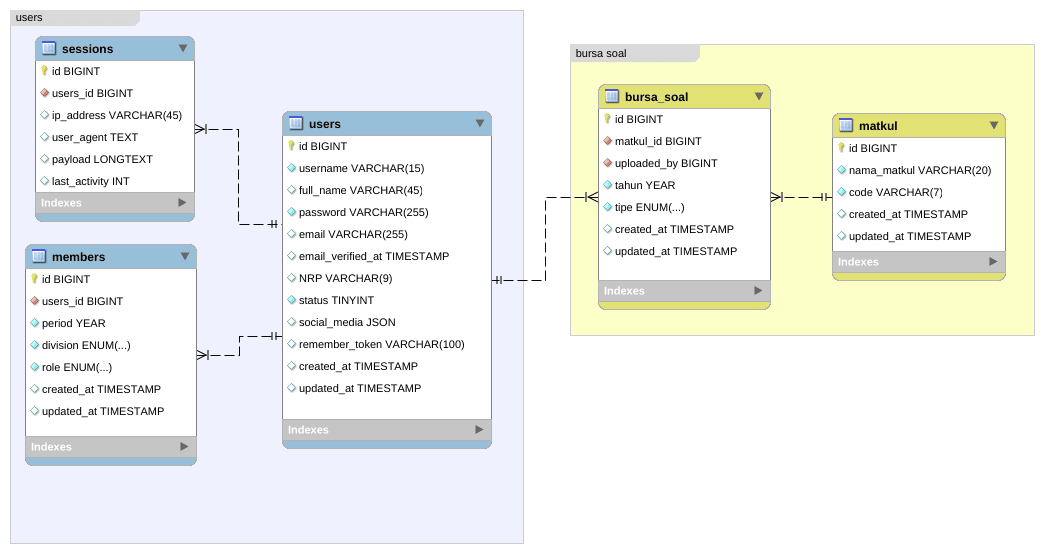
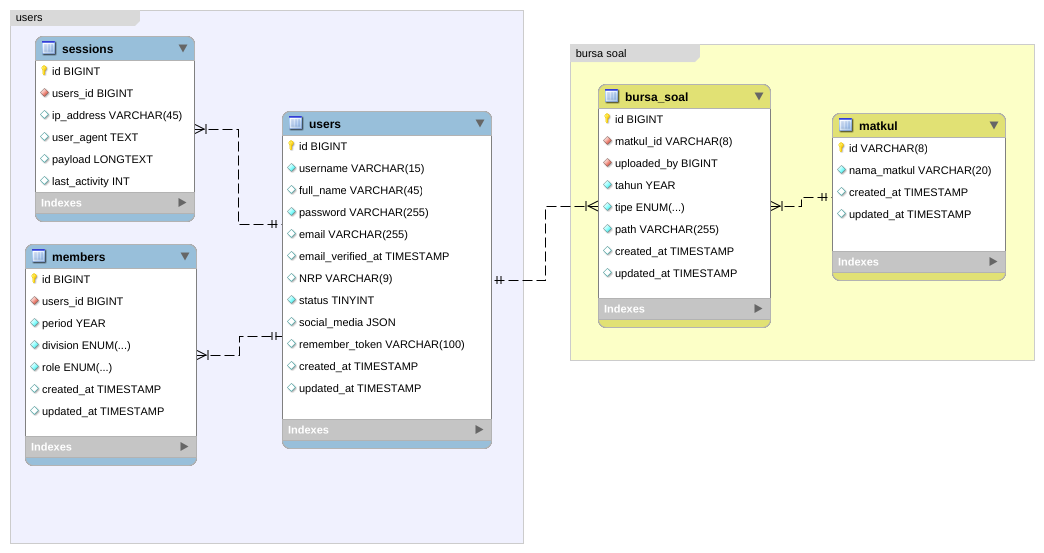
[Backend & Frontend] penjelasan ada di bawah, panjang soalnya :3 + tambah Models BursaSoal, Matkul, Members + ubah ERD & migration, tambah colum path di BursaSoal & jadiin satu code matkul jadi id *(biar query gampang) + jadiin satu tombol signup & login di homepage.

diff --git a/ksmif.org/database/seeders/MatkulSeeder.php b/ksmif.org/database/seeders/MatkulSeeder.php
@@ -1,0 +1,37 @@
+<?php
+
+namespace Database\Seeders;
+
+use App\Models\Matkul as ModelsMatkul;
+use Illuminate\Database\Console\Seeds\WithoutModelEvents;
+use Illuminate\Database\Seeder;
+
+class MatkulSeeder extends Seeder
+{
+    /**
+     * Run the database seeds.
+     */
+    public function run(): void
+    {
+        $matkul = [
+            ['id'          => '1604C011',
+             'nama_matkul' => 'Algoritm & Programming'
+            ],
+            ['id'          => '1604Z013',
+             'nama_matkul' => 'Literasi Digital'
+            ],
+            ['id'          => '1604Z012',
+             'nama_matkul' => 'Manusia & Pengembangan Diri',
+            ],
+            ['id'          => '1604C012',
+             'nama_matkul' => 'Introduction To Computer Science',
+            ],
+            ['id'          => '1604Z002',
+             'nama_matkul' => 'Pancasila & Kewarganegaraan',
+            ],
+        ];
+        foreach($matkul as $i){
+            ModelsMatkul::create($i);
+        }
+    }
+}

diff --git a/ksmif.org/app/Models/BursaSoal.php b/ksmif.org/app/Models/BursaSoal.php
@@ -1,0 +1,15 @@
+<?php
+
+namespace App\Models;
+
+use Illuminate\Database\Eloquent\Model;
+
+class BursaSoal extends Model
+{
+    protected $fillable = [
+        'matkul_id',
+        'uploaded_by', //di isi ID user 
+        'tahun',
+        'tipe' //['UTS', 'UAS', 'Quiz', 'Latihan']
+    ];
+}

diff --git a/ksmif.org/app/Models/Members.php b/ksmif.org/app/Models/Members.php
@@ -1,0 +1,15 @@
+<?php
+
+namespace App\Models;
+
+use Illuminate\Database\Eloquent\Model;
+
+class Members extends Model
+{
+    protected $fillable = [
+        'users_id',
+        'periode',
+        'division',
+        'role' //['Koor', 'WaKoor', 'Anggota','Ketua','Wakil Ketua', 'Sekretaris', 'Bendahara']
+    ];
+}

diff --git a/ksmif.org/app/Models/Matkul.php b/ksmif.org/app/Models/Matkul.php
@@ -1,0 +1,14 @@
+<?php
+
+namespace App\Models;
+
+use Illuminate\Database\Eloquent\Model;
+
+class Matkul extends Model
+{
+    protected $table = 'matkul';
+    protected $fillable = [
+        'id', 
+        'nama_matkul',
+    ];
+}

diff --git a/ksmif.org/database/seeders/DatabaseSeeder.php b/ksmif.org/database/seeders/DatabaseSeeder.php
@@ -2,24 +2,18 @@
 
 namespace Database\Seeders;
 
-use App\Models\User;
 use Illuminate\Database\Console\Seeds\WithoutModelEvents;
 use Illuminate\Database\Seeder;
 
 class DatabaseSeeder extends Seeder
 {
-    use WithoutModelEvents;
-
     /**
-     * Seed the application's database.
+     * Run the database seeds.
      */
     public function run(): void
     {
-        // User::factory(10)->create();
-
-        User::factory()->create([
-            'name' => 'Test User',
-            'email' => '[email redacted]',
+        $this->call([
+            MatkulSeeder::class
         ]);
     }
 }

diff --git a/ksmif.org/resources/views/layout/mainNavbar.blade.php b/ksmif.org/resources/views/layout/mainNavbar.blade.php
@@ -14,12 +14,9 @@
                 <p>Bursa Soal</p>
             </a>
         </div>
-        <div class="grid gap-x-4 grid-cols-2 h-fit">
-            <a href="" class="bg-black text-white p-1.5 pl-2.5 rounded-2xl">
-                SignUp
-            </a>
-            <a href="" class="border-2 rounded-2xl p-1.5 backdrop-blur mr-5">
-                Login
+        <div class="m-2.5 h-fit">
+            <a href="" class="bg-black text-white p-2 rounded-2xl">
+                SignUp / LogIn
             </a>
         </div>
     </div>

diff --git a/ksmif.org/database/migrations/2026_04_08_064300_create_bursa_soal_table.php b/ksmif.org/database/migrations/2026_04_08_064300_create_bursa_soal_table.php
@@ -13,9 +13,8 @@ return new class extends Migration
     public function up(): void
     {
         Schema::create('matkul', function (Blueprint $table){
-            $table->id();
-            $table->string('nama_matkul', 20);
-            $table->string('code', 7);
+            $table->string('id', 8)->primary();
+            $table->string('nama_matkul', 50);
             $table->timestamps();
         });    
 
@@ -23,7 +22,8 @@ return new class extends Migration
             $table->id();
             $table->foreignId('matkul_id');
             $table->foreignId('uploaded_by')->constrained('users');
-            $table->enum('tipe',['UTS', 'UAS', 'Quiz']);
+            $table->enum('tipe',['UTS', 'UAS', 'Quiz', 'Latihan']);
+            $table->string('path');
             $table->timestamps();
         });
     }

diff --git a/ksmif.org/app/Http/Controllers/MainController.php b/ksmif.org/app/Http/Controllers/MainController.php
@@ -13,7 +13,7 @@ class MainController extends Controller
     }
 
     function ourTeam(){
-        $team = User::join('team', 'users.id', '=', 'team.user_id')
+        $team = User::join('members', 'users.id', '=', 'members.users_id')
                 ->get();
 
         $data=['navbar' => 'ourTeam',

diff --git a/ksmif.org/database/migrations/0001_01_01_000000_create_users_table.php b/ksmif.org/database/migrations/0001_01_01_000000_create_users_table.php
@@ -28,7 +28,7 @@ return new class extends Migration
             $table->foreignId('users_id');
             $table->year('period');
             $table->enum('division', ['BPH', 'IRD', 'PRD', 'HRDD', 'CDD']);
-            $table->enum('role', ['Koor', 'WaKoor', 'Anggota']);
+            $table->enum('role', ['Koor', 'WaKoor', 'Anggota','Ketua','Wakil Ketua', 'Sekretaris', 'Bendahara']);
             $table->timestamps();
         });
 